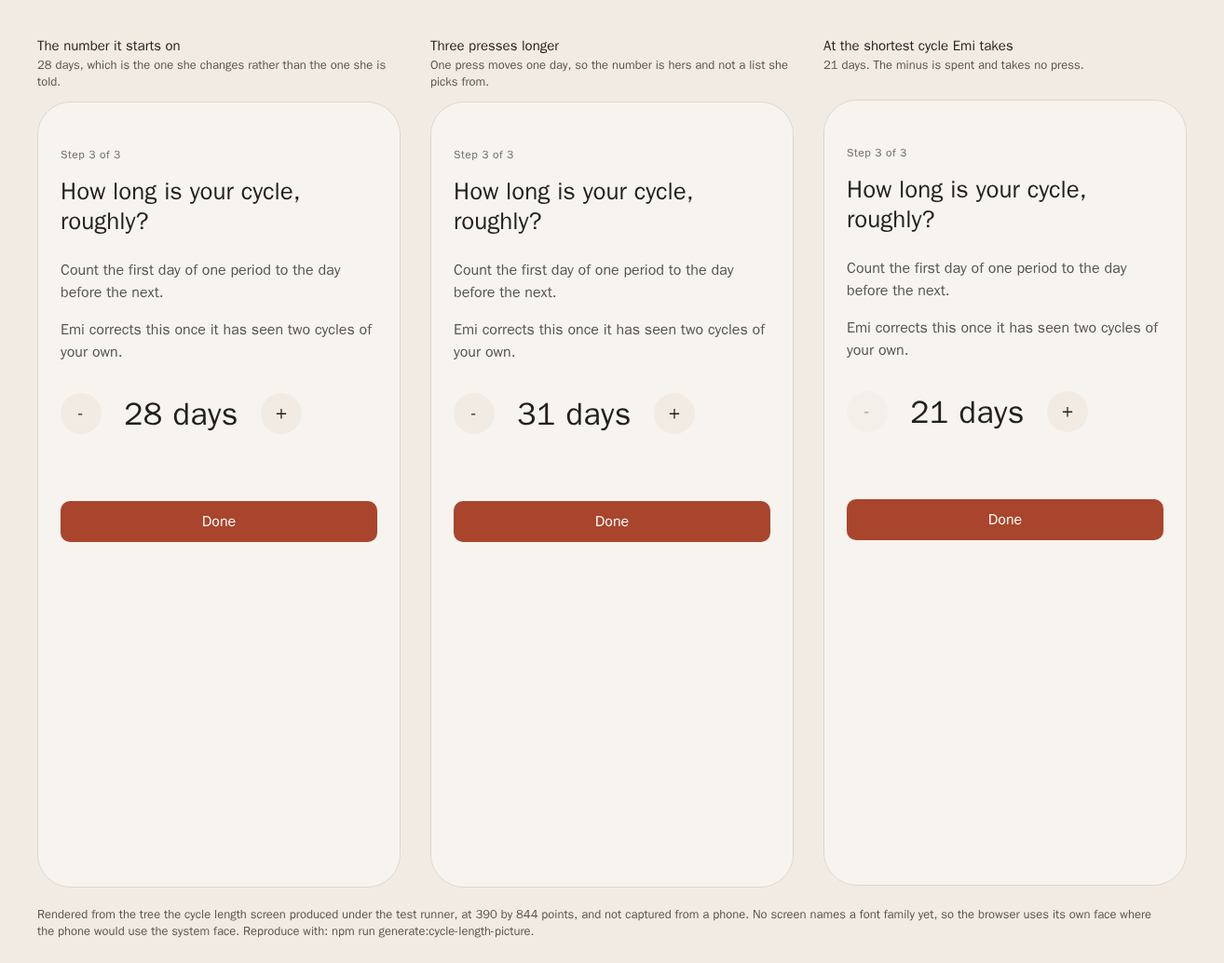
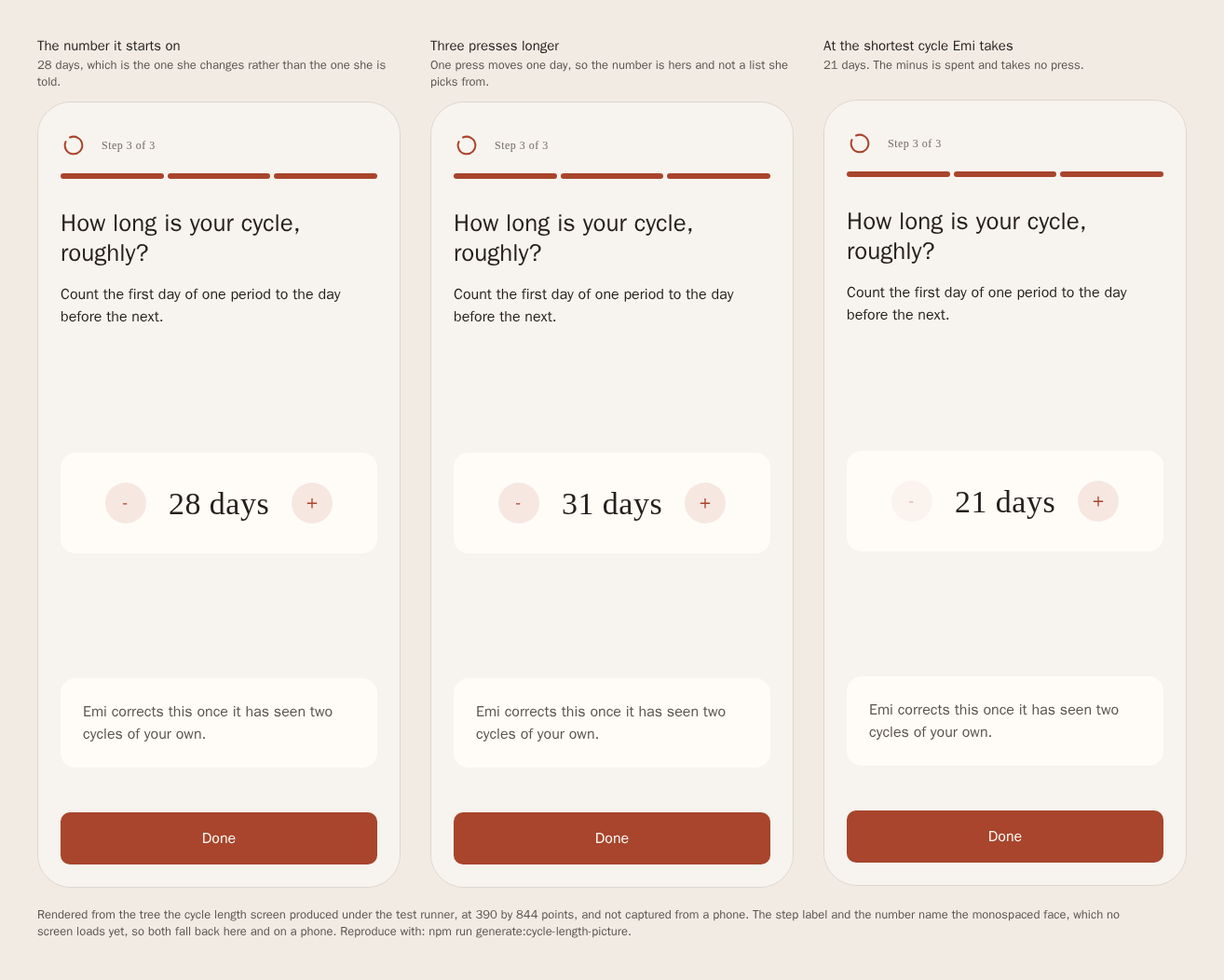
EMI: fix: redraw the three pictures for the design system on the first run

diff --git a/brand/screens/past-day.html b/brand/screens/past-day.html
@@ -22,4 +22,4 @@ svg { flex-shrink: 0; }
 .title { font-size: 15px; font-weight: 600; color: #241F1C; margin: 0 0 2px; }
 .note { font-size: 13px; color: #5C534E; margin: 0 0 12px; min-height: 34px; }
 .caveat { font-size: 13px; color: #5C534E; margin: 20px 0 0; max-width: 1200px; }
-</style></head><body><div class="screens"><section class="screen"><p class="title">The day she goes back to</p><p class="note">Day 3, holding the flow her records already carry. The ring is today, not that day.</p><div class="phone"><div style="background-color: #F7F3EE; flex: 1"><div style="; overflow: hidden"><div style="gap: 16px; padding: 24px; padding-top: 48px; min-height: 100%"><div><div style="align-items: center; margin-bottom: 16px"><div style="align-items: center; justify-content: center; height: 240px; width: 240px"><div style="opacity: 1; transform: scale(1)"><svg width="240" height="240" viewBox="0 0 240 240"><g><path d="M 120 8 A 112 112 0 0 1 219.021 67.666" stroke="#e05a4e" stroke-width="16" fill="none"></path><path d="M 229.375 144.105 A 112 112 0 0 1 209.11 187.848" stroke="#e0913a" stroke-width="16" opacity="0.2" fill="none"></path><path d="M 221.624 72.92 A 112 112 0 0 1 229.375 144.105" stroke="#e0913a" stroke-width="16" fill="none"></path><path d="M 205.437 192.419 A 112 112 0 0 1 52.152 209.11" stroke="#2e8c93" stroke-width="16" opacity="0.2" fill="none"></path><path d="M 47.581 205.437 A 112 112 0 0 1 114.138 8.153" stroke="#7a5b8c" stroke-width="16" opacity="0.2" fill="none"></path><circle cx="231.3418885929958" cy="132.12368939493732" r="9" fill="#a8452c" stroke="#f7f3ee" stroke-width="2"></circle></g></svg></div><div style="align-items: center; bottom: 0px; justify-content: center; left: 0px; position: absolute; right: 0px; top: 0px"><div style="color: #241F1C; font-size: 34px; letter-spacing: 0px; line-height: 41px">8</div><div style="font-size: 14px; letter-spacing: 0px; line-height: 20px; color: #8A5416">Follicular</div></div></div></div><div style="color: #756A64; font-size: 12px; letter-spacing: 0.48px; line-height: 16px">Wednesday 24 June</div><div style="color: #241F1C; font-size: 26px; line-height: 32px">Your flow</div><div style="flex-direction: row; flex-wrap: wrap; gap: 8px"><div style="align-items: center; border-radius: 10px; border-width: 1px; justify-content: center; max-width: 100%; min-height: 44px; min-width: 44px; padding-left: 16px; padding-right: 16px; padding-top: 8px; padding-bottom: 8px; background-color: #F1EBE4; border-color: #F1EBE4"><div style="color: #5C534E; font-size: 16px; line-height: 24px; text-align: center">None</div></div><div style="align-items: center; border-radius: 10px; border-width: 1px; justify-content: center; max-width: 100%; min-height: 44px; min-width: 44px; padding-left: 16px; padding-right: 16px; padding-top: 8px; padding-bottom: 8px; background-color: #F1EBE4; border-color: #F1EBE4"><div style="color: #5C534E; font-size: 16px; line-height: 24px; text-align: center">Spotting</div></div><div style="align-items: center; border-radius: 10px; border-width: 1px; justify-content: center; max-width: 100%; min-height: 44px; min-width: 44px; padding-left: 16px; padding-right: 16px; padding-top: 8px; padding-bottom: 8px; background-color: #F1EBE4; border-color: #F1EBE4"><div style="color: #5C534E; font-size: 16px; line-height: 24px; text-align: center">Light</div></div><div style="align-items: center; border-radius: 10px; border-width: 1px; justify-content: center; max-width: 100%; min-height: 44px; min-width: 44px; padding-left: 16px; padding-right: 16px; padding-top: 8px; padding-bottom: 8px; background-color: #F6E7E1; border-color: #A8452C"><div style="color: #5C534E; font-size: 16px; line-height: 24px; text-align: center; color: #241F1C">Medium</div></div><div style="align-items: center; border-radius: 10px; border-width: 1px; justify-content: center; max-width: 100%; min-height: 44px; min-width: 44px; padding-left: 16px; padding-right: 16px; padding-top: 8px; padding-bottom: 8px; background-color: #F1EBE4; border-color: #F1EBE4"><div style="color: #5C534E; font-size: 16px; line-height: 24px; text-align: center">Heavy</div></div></div><div style="border-top-color: #241F1C1A; border-top-width: 1px; gap: 8px; margin-top: 8px; padding-top: 16px"><div style="color: #5C534E; font-size: 14px; line-height: 20px">Not your period? Log it. Emi will track the pattern.</div><div style="align-items: center; align-self: flex-start; border-radius: 10px; border-width: 1px; justify-content: center; min-height: 44px; min-width: 44px; padding-left: 16px; padding-right: 16px; padding-top: 8px; padding-bottom: 8px; background-color: #F1EBE4; border-color: #F1EBE4"><div style="color: #5C534E; font-size: 16px; line-height: 24px">Not my period</div></div></div><div style="color: #5C534E; font-size: 16px; line-height: 24px">Saved on this phone.</div></div></div></div><div style="align-items: center; background-color: #A8452C; border-radius: 10px; justify-content: center; margin: 24px; min-height: 44px; min-width: 44px; padding-left: 24px; padding-right: 24px"><div style="color: #FFFCF8; font-size: 16px; line-height: 24px">Done</div></div></div></div></section><section class="screen"><p class="title">She corrects it to light</p><p class="note">Drawn from her corrected days. The ring stands still: the cycle still starts where it started.</p><div class="phone"><div style="background-color: #F7F3EE; flex: 1"><div style="; overflow: hidden"><div style="gap: 16px; padding: 24px; padding-top: 48px; min-height: 100%"><div><div style="align-items: center; margin-bottom: 16px"><div style="align-items: center; justify-content: center; height: 240px; width: 240px"><div style="opacity: 1; transform: scale(1)"><svg width="240" height="240" viewBox="0 0 240 240"><g><path d="M 120 8 A 112 112 0 0 1 219.021 67.666" stroke="#e05a4e" stroke-width="16" fill="none"></path><path d="M 229.375 144.105 A 112 112 0 0 1 209.11 187.848" stroke="#e0913a" stroke-width="16" opacity="0.2" fill="none"></path><path d="M 221.624 72.92 A 112 112 0 0 1 229.375 144.105" stroke="#e0913a" stroke-width="16" fill="none"></path><path d="M 205.437 192.419 A 112 112 0 0 1 52.152 209.11" stroke="#2e8c93" stroke-width="16" opacity="0.2" fill="none"></path><path d="M 47.581 205.437 A 112 112 0 0 1 114.138 8.153" stroke="#7a5b8c" stroke-width="16" opacity="0.2" fill="none"></path><circle cx="231.3418885929958" cy="132.12368939493732" r="9" fill="#a8452c" stroke="#f7f3ee" stroke-width="2"></circle></g></svg></div><div style="align-items: center; bottom: 0px; justify-content: center; left: 0px; position: absolute; right: 0px; top: 0px"><div style="color: #241F1C; font-size: 34px; letter-spacing: 0px; line-height: 41px">8</div><div style="font-size: 14px; letter-spacing: 0px; line-height: 20px; color: #8A5416">Follicular</div></div></div></div><div style="color: #756A64; font-size: 12px; letter-spacing: 0.48px; line-height: 16px">Wednesday 24 June</div><div style="color: #241F1C; font-size: 26px; line-height: 32px">Your flow</div><div style="flex-direction: row; flex-wrap: wrap; gap: 8px"><div style="align-items: center; border-radius: 10px; border-width: 1px; justify-content: center; max-width: 100%; min-height: 44px; min-width: 44px; padding-left: 16px; padding-right: 16px; padding-top: 8px; padding-bottom: 8px; background-color: #F1EBE4; border-color: #F1EBE4"><div style="color: #5C534E; font-size: 16px; line-height: 24px; text-align: center">None</div></div><div style="align-items: center; border-radius: 10px; border-width: 1px; justify-content: center; max-width: 100%; min-height: 44px; min-width: 44px; padding-left: 16px; padding-right: 16px; padding-top: 8px; padding-bottom: 8px; background-color: #F1EBE4; border-color: #F1EBE4"><div style="color: #5C534E; font-size: 16px; line-height: 24px; text-align: center">Spotting</div></div><div style="align-items: center; border-radius: 10px; border-width: 1px; justify-content: center; max-width: 100%; min-height: 44px; min-width: 44px; padding-left: 16px; padding-right: 16px; padding-top: 8px; padding-bottom: 8px; background-color: #F6E7E1; border-color: #A8452C"><div style="color: #5C534E; font-size: 16px; line-height: 24px; text-align: center; color: #241F1C">Light</div></div><div style="align-items: center; border-radius: 10px; border-width: 1px; justify-content: center; max-width: 100%; min-height: 44px; min-width: 44px; padding-left: 16px; padding-right: 16px; padding-top: 8px; padding-bottom: 8px; background-color: #F1EBE4; border-color: #F1EBE4"><div style="color: #5C534E; font-size: 16px; line-height: 24px; text-align: center">Medium</div></div><div style="align-items: center; border-radius: 10px; border-width: 1px; justify-content: center; max-width: 100%; min-height: 44px; min-width: 44px; padding-left: 16px; padding-right: 16px; padding-top: 8px; padding-bottom: 8px; background-color: #F1EBE4; border-color: #F1EBE4"><div style="color: #5C534E; font-size: 16px; line-height: 24px; text-align: center">Heavy</div></div></div><div style="border-top-color: #241F1C1A; border-top-width: 1px; gap: 8px; margin-top: 8px; padding-top: 16px"><div style="color: #5C534E; font-size: 14px; line-height: 20px">Not your period? Log it. Emi will track the pattern.</div><div style="align-items: center; align-self: flex-start; border-radius: 10px; border-width: 1px; justify-content: center; min-height: 44px; min-width: 44px; padding-left: 16px; padding-right: 16px; padding-top: 8px; padding-bottom: 8px; background-color: #F1EBE4; border-color: #F1EBE4"><div style="color: #5C534E; font-size: 16px; line-height: 24px">Not my period</div></div></div><div style="color: #5C534E; font-size: 16px; line-height: 24px">Saved on this phone.</div></div></div></div><div style="align-items: center; background-color: #A8452C; border-radius: 10px; justify-content: center; margin: 24px; min-height: 44px; min-width: 44px; padding-left: 24px; padding-right: 24px"><div style="color: #FFFCF8; font-size: 16px; line-height: 24px">Done</div></div></div></div></section><section class="screen"><p class="title">A day she has not lived</p><p class="note">The rule sits in the write and not only on the screen, so no path can record a day ahead.</p><div class="phone"><div style="background-color: #F7F3EE; flex: 1; justify-content: center; padding: 24px"><div style="color: #241F1C; font-size: 26px; line-height: 32px; margin-bottom: 8px; text-align: center">Not yet</div><div style="color: #5C534E; font-size: 16px; line-height: 24px; text-align: center">That day has not happened. You can log today and any day behind it.</div><div style="align-items: center; background-color: #A8452C; border-radius: 10px; justify-content: center; margin-top: 32px; min-height: 44px; min-width: 44px; padding-left: 24px; padding-right: 24px"><div style="color: #FFFCF8; font-size: 16px; line-height: 24px">Back</div></div></div></div></section></div><p class="caveat">Rendered from the tree the day screen produced under the test runner, at 390 by 844 points, and not captured from a phone. No screen names a font family yet, so the browser uses its own face where the phone would use the system face. Reproduce with: npm run generate:past-day-picture.</p></body></html>
+</style></head><body><div class="screens"><section class="screen"><p class="title">The day she goes back to</p><p class="note">Day 3, holding the flow her records already carry. The ring is today, not that day.</p><div class="phone"><div style="background-color: #F7F3EE; flex: 1"><div style="; overflow: hidden"><div style="gap: 16px; padding: 24px; padding-top: 48px; min-height: 100%"><div style="align-items: center; margin-bottom: 16px"><div style="align-items: center; justify-content: center; height: 240px; width: 240px"><div style="opacity: 1; transform: scale(1)"><svg width="240" height="240" viewBox="0 0 240 240"><g><path d="M 120 8 A 112 112 0 0 1 219.021 67.666" stroke="#e05a4e" stroke-width="16" fill="none"></path><path d="M 229.375 144.105 A 112 112 0 0 1 209.11 187.848" stroke="#e0913a" stroke-width="16" fill="none"></path><path d="M 221.624 72.92 A 112 112 0 0 1 229.375 144.105" stroke="#e0913a" stroke-width="16" fill="none"></path><path d="M 205.437 192.419 A 112 112 0 0 1 52.152 209.11" stroke="#2e8c93" stroke-width="16" fill="none"></path><path d="M 47.581 205.437 A 112 112 0 0 1 114.138 8.153" stroke="#7a5b8c" stroke-width="16" fill="none"></path><circle cx="231.3418885929958" cy="132.12368939493732" r="9" fill="#a8452c" stroke="#f7f3ee" stroke-width="2"></circle></g></svg></div><div style="align-items: center; bottom: 0px; justify-content: center; left: 0px; position: absolute; right: 0px; top: 0px"><div style="color: #241F1C; font-size: 34px; letter-spacing: 0px; line-height: 41px">8</div><div style="font-size: 14px; letter-spacing: 0px; line-height: 20px; color: #8A5416">Follicular</div></div></div></div><div style="color: #756A64; font-size: 12px; letter-spacing: 0.48px; line-height: 16px">Wednesday 24 June</div><div style="color: #241F1C; font-size: 26px; line-height: 32px">Your flow</div><div style="flex-direction: row; flex-wrap: wrap; gap: 8px"><div style="align-items: center; border-radius: 10px; border-width: 1px; justify-content: center; max-width: 100%; min-height: 44px; min-width: 44px; padding-left: 16px; padding-right: 16px; padding-top: 8px; padding-bottom: 8px; background-color: #F1EBE4; border-color: #F1EBE4"><div style="color: #5C534E; font-size: 16px; line-height: 24px; text-align: center">None</div></div><div style="align-items: center; border-radius: 10px; border-width: 1px; justify-content: center; max-width: 100%; min-height: 44px; min-width: 44px; padding-left: 16px; padding-right: 16px; padding-top: 8px; padding-bottom: 8px; background-color: #F1EBE4; border-color: #F1EBE4"><div style="color: #5C534E; font-size: 16px; line-height: 24px; text-align: center">Spotting</div></div><div style="align-items: center; border-radius: 10px; border-width: 1px; justify-content: center; max-width: 100%; min-height: 44px; min-width: 44px; padding-left: 16px; padding-right: 16px; padding-top: 8px; padding-bottom: 8px; background-color: #F1EBE4; border-color: #F1EBE4"><div style="color: #5C534E; font-size: 16px; line-height: 24px; text-align: center">Light</div></div><div style="align-items: center; border-radius: 10px; border-width: 1px; justify-content: center; max-width: 100%; min-height: 44px; min-width: 44px; padding-left: 16px; padding-right: 16px; padding-top: 8px; padding-bottom: 8px; background-color: #F6E7E1; border-color: #A8452C"><div style="color: #5C534E; font-size: 16px; line-height: 24px; text-align: center; color: #241F1C">Medium</div></div><div style="align-items: center; border-radius: 10px; border-width: 1px; justify-content: center; max-width: 100%; min-height: 44px; min-width: 44px; padding-left: 16px; padding-right: 16px; padding-top: 8px; padding-bottom: 8px; background-color: #F1EBE4; border-color: #F1EBE4"><div style="color: #5C534E; font-size: 16px; line-height: 24px; text-align: center">Heavy</div></div></div><div style="border-top-color: #241F1C1A; border-top-width: 1px; gap: 8px; margin-top: 8px; padding-top: 16px"><div style="color: #5C534E; font-size: 14px; line-height: 20px">Not your period? Log it. Emi will track the pattern.</div><div style="align-items: center; align-self: flex-start; border-radius: 10px; border-width: 1px; justify-content: center; min-height: 44px; min-width: 44px; padding-left: 16px; padding-right: 16px; padding-top: 8px; padding-bottom: 8px; background-color: #F1EBE4; border-color: #F1EBE4"><div style="color: #5C534E; font-size: 16px; line-height: 24px">Not my period</div></div></div><div style="color: #5C534E; font-size: 16px; line-height: 24px">Saved on this phone.</div></div></div><div style="align-items: center; background-color: #A8452C; border-radius: 10px; justify-content: center; margin: 24px; min-height: 44px; min-width: 44px; padding-left: 24px; padding-right: 24px"><div style="color: #FFFCF8; font-size: 16px; line-height: 24px">Done</div></div></div></div></section><section class="screen"><p class="title">She corrects it to light</p><p class="note">Drawn from her corrected days. The ring stands still: the cycle still starts where it started.</p><div class="phone"><div style="background-color: #F7F3EE; flex: 1"><div style="; overflow: hidden"><div style="gap: 16px; padding: 24px; padding-top: 48px; min-height: 100%"><div style="align-items: center; margin-bottom: 16px"><div style="align-items: center; justify-content: center; height: 240px; width: 240px"><div style="opacity: 1; transform: scale(1)"><svg width="240" height="240" viewBox="0 0 240 240"><g><path d="M 120 8 A 112 112 0 0 1 219.021 67.666" stroke="#e05a4e" stroke-width="16" fill="none"></path><path d="M 229.375 144.105 A 112 112 0 0 1 209.11 187.848" stroke="#e0913a" stroke-width="16" fill="none"></path><path d="M 221.624 72.92 A 112 112 0 0 1 229.375 144.105" stroke="#e0913a" stroke-width="16" fill="none"></path><path d="M 205.437 192.419 A 112 112 0 0 1 52.152 209.11" stroke="#2e8c93" stroke-width="16" fill="none"></path><path d="M 47.581 205.437 A 112 112 0 0 1 114.138 8.153" stroke="#7a5b8c" stroke-width="16" fill="none"></path><circle cx="231.3418885929958" cy="132.12368939493732" r="9" fill="#a8452c" stroke="#f7f3ee" stroke-width="2"></circle></g></svg></div><div style="align-items: center; bottom: 0px; justify-content: center; left: 0px; position: absolute; right: 0px; top: 0px"><div style="color: #241F1C; font-size: 34px; letter-spacing: 0px; line-height: 41px">8</div><div style="font-size: 14px; letter-spacing: 0px; line-height: 20px; color: #8A5416">Follicular</div></div></div></div><div style="color: #756A64; font-size: 12px; letter-spacing: 0.48px; line-height: 16px">Wednesday 24 June</div><div style="color: #241F1C; font-size: 26px; line-height: 32px">Your flow</div><div style="flex-direction: row; flex-wrap: wrap; gap: 8px"><div style="align-items: center; border-radius: 10px; border-width: 1px; justify-content: center; max-width: 100%; min-height: 44px; min-width: 44px; padding-left: 16px; padding-right: 16px; padding-top: 8px; padding-bottom: 8px; background-color: #F1EBE4; border-color: #F1EBE4"><div style="color: #5C534E; font-size: 16px; line-height: 24px; text-align: center">None</div></div><div style="align-items: center; border-radius: 10px; border-width: 1px; justify-content: center; max-width: 100%; min-height: 44px; min-width: 44px; padding-left: 16px; padding-right: 16px; padding-top: 8px; padding-bottom: 8px; background-color: #F1EBE4; border-color: #F1EBE4"><div style="color: #5C534E; font-size: 16px; line-height: 24px; text-align: center">Spotting</div></div><div style="align-items: center; border-radius: 10px; border-width: 1px; justify-content: center; max-width: 100%; min-height: 44px; min-width: 44px; padding-left: 16px; padding-right: 16px; padding-top: 8px; padding-bottom: 8px; background-color: #F6E7E1; border-color: #A8452C"><div style="color: #5C534E; font-size: 16px; line-height: 24px; text-align: center; color: #241F1C">Light</div></div><div style="align-items: center; border-radius: 10px; border-width: 1px; justify-content: center; max-width: 100%; min-height: 44px; min-width: 44px; padding-left: 16px; padding-right: 16px; padding-top: 8px; padding-bottom: 8px; background-color: #F1EBE4; border-color: #F1EBE4"><div style="color: #5C534E; font-size: 16px; line-height: 24px; text-align: center">Medium</div></div><div style="align-items: center; border-radius: 10px; border-width: 1px; justify-content: center; max-width: 100%; min-height: 44px; min-width: 44px; padding-left: 16px; padding-right: 16px; padding-top: 8px; padding-bottom: 8px; background-color: #F1EBE4; border-color: #F1EBE4"><div style="color: #5C534E; font-size: 16px; line-height: 24px; text-align: center">Heavy</div></div></div><div style="border-top-color: #241F1C1A; border-top-width: 1px; gap: 8px; margin-top: 8px; padding-top: 16px"><div style="color: #5C534E; font-size: 14px; line-height: 20px">Not your period? Log it. Emi will track the pattern.</div><div style="align-items: center; align-self: flex-start; border-radius: 10px; border-width: 1px; justify-content: center; min-height: 44px; min-width: 44px; padding-left: 16px; padding-right: 16px; padding-top: 8px; padding-bottom: 8px; background-color: #F1EBE4; border-color: #F1EBE4"><div style="color: #5C534E; font-size: 16px; line-height: 24px">Not my period</div></div></div><div style="color: #5C534E; font-size: 16px; line-height: 24px">Saved on this phone.</div></div></div><div style="align-items: center; background-color: #A8452C; border-radius: 10px; justify-content: center; margin: 24px; min-height: 44px; min-width: 44px; padding-left: 24px; padding-right: 24px"><div style="color: #FFFCF8; font-size: 16px; line-height: 24px">Done</div></div></div></div></section><section class="screen"><p class="title">A day she has not lived</p><p class="note">The rule sits in the write and not only on the screen, so no path can record a day ahead.</p><div class="phone"><div style="background-color: #F7F3EE; flex: 1; justify-content: center; padding: 24px"><div style="color: #241F1C; font-size: 26px; line-height: 32px; margin-bottom: 8px; text-align: center">Not yet</div><div style="color: #5C534E; font-size: 16px; line-height: 24px; text-align: center">That day has not happened. You can log today and any day behind it.</div><div style="align-items: center; background-color: #A8452C; border-radius: 10px; justify-content: center; margin-top: 32px; min-height: 44px; min-width: 44px; padding-left: 24px; padding-right: 24px"><div style="color: #FFFCF8; font-size: 16px; line-height: 24px">Back</div></div></div></div></section></div><p class="caveat">Rendered from the tree the day screen produced under the test runner, at 390 by 844 points, and not captured from a phone. No screen names a font family yet, so the browser uses its own face where the phone would use the system face. Reproduce with: npm run generate:past-day-picture.</p></body></html>

diff --git a/brand/screens/cycle-length.html b/brand/screens/cycle-length.html
@@ -22,4 +22,4 @@ svg { flex-shrink: 0; }
 .title { font-size: 15px; font-weight: 600; color: #241F1C; margin: 0 0 2px; }
 .note { font-size: 13px; color: #5C534E; margin: 0 0 12px; min-height: 34px; }
 .caveat { font-size: 13px; color: #5C534E; margin: 20px 0 0; max-width: 1200px; }
-</style></head><body><div class="screens"><section class="screen"><p class="title">The number it starts on</p><p class="note">28 days, which is the one she changes rather than the one she is told.</p><div class="phone"><div style="background-color: #F7F3EE; flex: 1"><div style="; overflow: hidden"><div style="padding: 24px; padding-top: 48px; min-height: 100%"><div><div style="color: #756A64; font-size: 12px; letter-spacing: 0.48px; line-height: 16px; margin-bottom: 16px">Step 3 of 3</div><div style="color: #241F1C; font-size: 26px; line-height: 32px; margin-bottom: 24px">How long is your cycle, roughly?</div><div style="color: #5C534E; font-size: 16px; line-height: 24px; margin-bottom: 16px">Count the first day of one period to the day before the next.</div><div style="color: #5C534E; font-size: 16px; line-height: 24px; margin-bottom: 16px">Emi corrects this once it has seen two cycles of your own.</div><div style="align-items: center; flex-direction: row; gap: 24px; margin-bottom: 24px; margin-top: 16px"><div style="align-items: center; background-color: #F1EBE4; border-radius: 999px; justify-content: center; min-height: 44px; min-width: 44px"><div style="color: #241F1C; font-size: 20px; line-height: 26px">-</div></div><div style="color: #241F1C; font-size: 34px; letter-spacing: 0.48px; line-height: 41px">28 days</div><div style="align-items: center; background-color: #F1EBE4; border-radius: 999px; justify-content: center; min-height: 44px; min-width: 44px"><div style="color: #241F1C; font-size: 20px; line-height: 26px">+</div></div></div></div></div></div><div style="align-items: center; background-color: #A8452C; border-radius: 10px; justify-content: center; margin: 24px; min-height: 44px; min-width: 44px; padding-left: 24px; padding-right: 24px"><div style="color: #FFFCF8; font-size: 16px; line-height: 24px">Done</div></div></div></div></section><section class="screen"><p class="title">Three presses longer</p><p class="note">One press moves one day, so the number is hers and not a list she picks from.</p><div class="phone"><div style="background-color: #F7F3EE; flex: 1"><div style="; overflow: hidden"><div style="padding: 24px; padding-top: 48px; min-height: 100%"><div><div style="color: #756A64; font-size: 12px; letter-spacing: 0.48px; line-height: 16px; margin-bottom: 16px">Step 3 of 3</div><div style="color: #241F1C; font-size: 26px; line-height: 32px; margin-bottom: 24px">How long is your cycle, roughly?</div><div style="color: #5C534E; font-size: 16px; line-height: 24px; margin-bottom: 16px">Count the first day of one period to the day before the next.</div><div style="color: #5C534E; font-size: 16px; line-height: 24px; margin-bottom: 16px">Emi corrects this once it has seen two cycles of your own.</div><div style="align-items: center; flex-direction: row; gap: 24px; margin-bottom: 24px; margin-top: 16px"><div style="align-items: center; background-color: #F1EBE4; border-radius: 999px; justify-content: center; min-height: 44px; min-width: 44px"><div style="color: #241F1C; font-size: 20px; line-height: 26px">-</div></div><div style="color: #241F1C; font-size: 34px; letter-spacing: 0.48px; line-height: 41px">31 days</div><div style="align-items: center; background-color: #F1EBE4; border-radius: 999px; justify-content: center; min-height: 44px; min-width: 44px"><div style="color: #241F1C; font-size: 20px; line-height: 26px">+</div></div></div></div></div></div><div style="align-items: center; background-color: #A8452C; border-radius: 10px; justify-content: center; margin: 24px; min-height: 44px; min-width: 44px; padding-left: 24px; padding-right: 24px"><div style="color: #FFFCF8; font-size: 16px; line-height: 24px">Done</div></div></div></div></section><section class="screen"><p class="title">At the shortest cycle Emi takes</p><p class="note">21 days. The minus is spent and takes no press.</p><div class="phone"><div style="background-color: #F7F3EE; flex: 1"><div style="; overflow: hidden"><div style="padding: 24px; padding-top: 48px; min-height: 100%"><div><div style="color: #756A64; font-size: 12px; letter-spacing: 0.48px; line-height: 16px; margin-bottom: 16px">Step 3 of 3</div><div style="color: #241F1C; font-size: 26px; line-height: 32px; margin-bottom: 24px">How long is your cycle, roughly?</div><div style="color: #5C534E; font-size: 16px; line-height: 24px; margin-bottom: 16px">Count the first day of one period to the day before the next.</div><div style="color: #5C534E; font-size: 16px; line-height: 24px; margin-bottom: 16px">Emi corrects this once it has seen two cycles of your own.</div><div style="align-items: center; flex-direction: row; gap: 24px; margin-bottom: 24px; margin-top: 16px"><div style="align-items: center; background-color: #F1EBE4; border-radius: 999px; justify-content: center; min-height: 44px; min-width: 44px; opacity: 0.4"><div style="color: #241F1C; font-size: 20px; line-height: 26px">-</div></div><div style="color: #241F1C; font-size: 34px; letter-spacing: 0.48px; line-height: 41px">21 days</div><div style="align-items: center; background-color: #F1EBE4; border-radius: 999px; justify-content: center; min-height: 44px; min-width: 44px"><div style="color: #241F1C; font-size: 20px; line-height: 26px">+</div></div></div></div></div></div><div style="align-items: center; background-color: #A8452C; border-radius: 10px; justify-content: center; margin: 24px; min-height: 44px; min-width: 44px; padding-left: 24px; padding-right: 24px"><div style="color: #FFFCF8; font-size: 16px; line-height: 24px">Done</div></div></div></div></section></div><p class="caveat">Rendered from the tree the cycle length screen produced under the test runner, at 390 by 844 points, and not captured from a phone. No screen names a font family yet, so the browser uses its own face where the phone would use the system face. Reproduce with: npm run generate:cycle-length-picture.</p></body></html>
+</style></head><body><div class="screens"><section class="screen"><p class="title">The number it starts on</p><p class="note">28 days, which is the one she changes rather than the one she is told.</p><div class="phone"><div style="background-color: #F7F3EE; flex: 1"><div style="align-items: center; flex-direction: row; gap: 16px; padding-left: 24px; padding-right: 24px; padding-top: 32px"><svg width="28" height="28" viewBox="0 0 24 24"><g stroke="#a8452c" stroke-width="1.75" stroke-linecap="round" stroke-linejoin="round"><path d="M4.75 8.62A8 8 0 1 0 8.62 4.75" fill="none"></path></g></svg><div style="color: #756A64; font-family: IBM Plex Mono; font-size: 12px; letter-spacing: 0.48px; line-height: 16px">Step 3 of 3</div></div><div style="flex-direction: row; gap: 4px; padding-left: 24px; padding-right: 24px; padding-top: 16px"><div style="background-color: #F1EBE4; border-radius: 999px; flex: 1; height: 6px; background-color: #A8452C"></div><div style="background-color: #F1EBE4; border-radius: 999px; flex: 1; height: 6px; background-color: #A8452C"></div><div style="background-color: #F1EBE4; border-radius: 999px; flex: 1; height: 6px; background-color: #A8452C"></div></div><div style="flex: 1; overflow: hidden"><div style="flex-grow: 1; justify-content: space-between; padding-bottom: 24px; padding-left: 24px; padding-right: 24px; padding-top: 32px; min-height: 100%"><div><div style="color: #241F1C; font-size: 26px; line-height: 32px; margin-bottom: 16px">How long is your cycle, roughly?</div><div style="color: #241F1C; font-size: 16px; line-height: 24px">Count the first day of one period to the day before the next.</div></div><div style="flex-grow: 1; justify-content: center; padding-top: 32px; padding-bottom: 32px"><div style="align-items: center; background-color: #FFFCF8; border-color: #241F1C1A; border-radius: 16px; border-width: 1px; flex-direction: row; gap: 24px; justify-content: center; padding-left: 24px; padding-right: 24px; padding-top: 32px; padding-bottom: 32px"><div style="align-items: center; background-color: #F6E7E1; border-color: #A8452C; border-radius: 999px; border-width: 1px; justify-content: center; min-height: 44px; min-width: 44px"><div style="color: #A8452C; font-size: 20px; line-height: 26px">-</div></div><div style="color: #241F1C; font-family: IBM Plex Mono; font-size: 34px; letter-spacing: 0.48px; line-height: 41px">28 days</div><div style="align-items: center; background-color: #F6E7E1; border-color: #A8452C; border-radius: 999px; border-width: 1px; justify-content: center; min-height: 44px; min-width: 44px"><div style="color: #A8452C; font-size: 20px; line-height: 26px">+</div></div></div></div><div style="background-color: #FFFCF8; border-color: #241F1C1A; border-radius: 16px; border-width: 1px; padding: 24px"><div style="color: #5C534E; font-size: 16px; line-height: 24px">Emi corrects this once it has seen two cycles of your own.</div></div></div></div><div style="border-top-color: #241F1C1A; border-top-width: 1px; padding: 24px"><div style="align-items: center; background-color: #A8452C; border-radius: 10px; justify-content: center; min-height: 44px; min-width: 44px; padding-left: 24px; padding-right: 24px; padding-top: 16px; padding-bottom: 16px"><div style="color: #FFFCF8; font-size: 16px; line-height: 24px">Done</div></div></div></div></div></section><section class="screen"><p class="title">Three presses longer</p><p class="note">One press moves one day, so the number is hers and not a list she picks from.</p><div class="phone"><div style="background-color: #F7F3EE; flex: 1"><div style="align-items: center; flex-direction: row; gap: 16px; padding-left: 24px; padding-right: 24px; padding-top: 32px"><svg width="28" height="28" viewBox="0 0 24 24"><g stroke="#a8452c" stroke-width="1.75" stroke-linecap="round" stroke-linejoin="round"><path d="M4.75 8.62A8 8 0 1 0 8.62 4.75" fill="none"></path></g></svg><div style="color: #756A64; font-family: IBM Plex Mono; font-size: 12px; letter-spacing: 0.48px; line-height: 16px">Step 3 of 3</div></div><div style="flex-direction: row; gap: 4px; padding-left: 24px; padding-right: 24px; padding-top: 16px"><div style="background-color: #F1EBE4; border-radius: 999px; flex: 1; height: 6px; background-color: #A8452C"></div><div style="background-color: #F1EBE4; border-radius: 999px; flex: 1; height: 6px; background-color: #A8452C"></div><div style="background-color: #F1EBE4; border-radius: 999px; flex: 1; height: 6px; background-color: #A8452C"></div></div><div style="flex: 1; overflow: hidden"><div style="flex-grow: 1; justify-content: space-between; padding-bottom: 24px; padding-left: 24px; padding-right: 24px; padding-top: 32px; min-height: 100%"><div><div style="color: #241F1C; font-size: 26px; line-height: 32px; margin-bottom: 16px">How long is your cycle, roughly?</div><div style="color: #241F1C; font-size: 16px; line-height: 24px">Count the first day of one period to the day before the next.</div></div><div style="flex-grow: 1; justify-content: center; padding-top: 32px; padding-bottom: 32px"><div style="align-items: center; background-color: #FFFCF8; border-color: #241F1C1A; border-radius: 16px; border-width: 1px; flex-direction: row; gap: 24px; justify-content: center; padding-left: 24px; padding-right: 24px; padding-top: 32px; padding-bottom: 32px"><div style="align-items: center; background-color: #F6E7E1; border-color: #A8452C; border-radius: 999px; border-width: 1px; justify-content: center; min-height: 44px; min-width: 44px"><div style="color: #A8452C; font-size: 20px; line-height: 26px">-</div></div><div style="color: #241F1C; font-family: IBM Plex Mono; font-size: 34px; letter-spacing: 0.48px; line-height: 41px">31 days</div><div style="align-items: center; background-color: #F6E7E1; border-color: #A8452C; border-radius: 999px; border-width: 1px; justify-content: center; min-height: 44px; min-width: 44px"><div style="color: #A8452C; font-size: 20px; line-height: 26px">+</div></div></div></div><div style="background-color: #FFFCF8; border-color: #241F1C1A; border-radius: 16px; border-width: 1px; padding: 24px"><div style="color: #5C534E; font-size: 16px; line-height: 24px">Emi corrects this once it has seen two cycles of your own.</div></div></div></div><div style="border-top-color: #241F1C1A; border-top-width: 1px; padding: 24px"><div style="align-items: center; background-color: #A8452C; border-radius: 10px; justify-content: center; min-height: 44px; min-width: 44px; padding-left: 24px; padding-right: 24px; padding-top: 16px; padding-bottom: 16px"><div style="color: #FFFCF8; font-size: 16px; line-height: 24px">Done</div></div></div></div></div></section><section class="screen"><p class="title">At the shortest cycle Emi takes</p><p class="note">21 days. The minus is spent and takes no press.</p><div class="phone"><div style="background-color: #F7F3EE; flex: 1"><div style="align-items: center; flex-direction: row; gap: 16px; padding-left: 24px; padding-right: 24px; padding-top: 32px"><svg width="28" height="28" viewBox="0 0 24 24"><g stroke="#a8452c" stroke-width="1.75" stroke-linecap="round" stroke-linejoin="round"><path d="M4.75 8.62A8 8 0 1 0 8.62 4.75" fill="none"></path></g></svg><div style="color: #756A64; font-family: IBM Plex Mono; font-size: 12px; letter-spacing: 0.48px; line-height: 16px">Step 3 of 3</div></div><div style="flex-direction: row; gap: 4px; padding-left: 24px; padding-right: 24px; padding-top: 16px"><div style="background-color: #F1EBE4; border-radius: 999px; flex: 1; height: 6px; background-color: #A8452C"></div><div style="background-color: #F1EBE4; border-radius: 999px; flex: 1; height: 6px; background-color: #A8452C"></div><div style="background-color: #F1EBE4; border-radius: 999px; flex: 1; height: 6px; background-color: #A8452C"></div></div><div style="flex: 1; overflow: hidden"><div style="flex-grow: 1; justify-content: space-between; padding-bottom: 24px; padding-left: 24px; padding-right: 24px; padding-top: 32px; min-height: 100%"><div><div style="color: #241F1C; font-size: 26px; line-height: 32px; margin-bottom: 16px">How long is your cycle, roughly?</div><div style="color: #241F1C; font-size: 16px; line-height: 24px">Count the first day of one period to the day before the next.</div></div><div style="flex-grow: 1; justify-content: center; padding-top: 32px; padding-bottom: 32px"><div style="align-items: center; background-color: #FFFCF8; border-color: #241F1C1A; border-radius: 16px; border-width: 1px; flex-direction: row; gap: 24px; justify-content: center; padding-left: 24px; padding-right: 24px; padding-top: 32px; padding-bottom: 32px"><div style="align-items: center; background-color: #F6E7E1; border-color: #A8452C; border-radius: 999px; border-width: 1px; justify-content: center; min-height: 44px; min-width: 44px; opacity: 0.4"><div style="color: #A8452C; font-size: 20px; line-height: 26px">-</div></div><div style="color: #241F1C; font-family: IBM Plex Mono; font-size: 34px; letter-spacing: 0.48px; line-height: 41px">21 days</div><div style="align-items: center; background-color: #F6E7E1; border-color: #A8452C; border-radius: 999px; border-width: 1px; justify-content: center; min-height: 44px; min-width: 44px"><div style="color: #A8452C; font-size: 20px; line-height: 26px">+</div></div></div></div><div style="background-color: #FFFCF8; border-color: #241F1C1A; border-radius: 16px; border-width: 1px; padding: 24px"><div style="color: #5C534E; font-size: 16px; line-height: 24px">Emi corrects this once it has seen two cycles of your own.</div></div></div></div><div style="border-top-color: #241F1C1A; border-top-width: 1px; padding: 24px"><div style="align-items: center; background-color: #A8452C; border-radius: 10px; justify-content: center; min-height: 44px; min-width: 44px; padding-left: 24px; padding-right: 24px; padding-top: 16px; padding-bottom: 16px"><div style="color: #FFFCF8; font-size: 16px; line-height: 24px">Done</div></div></div></div></div></section></div><p class="caveat">Rendered from the tree the cycle length screen produced under the test runner, at 390 by 844 points, and not captured from a phone. The step label and the number name the monospaced face, which no screen loads yet, so both fall back here and on a phone. Reproduce with: npm run generate:cycle-length-picture.</p></body></html>

diff --git a/brand/screens/welcome.html b/brand/screens/welcome.html
@@ -22,4 +22,4 @@ svg { flex-shrink: 0; }
 .title { font-size: 15px; font-weight: 600; color: #241F1C; margin: 0 0 2px; }
 .note { font-size: 13px; color: #5C534E; margin: 0 0 12px; min-height: 34px; }
 .caveat { font-size: 13px; color: #5C534E; margin: 20px 0 0; max-width: 1200px; }
-</style></head><body><div class="screens"><section class="screen"><p class="title">Step 1 of 3, and it asks her nothing</p><p class="note">No account, no email address, and the two refusals stated on the first screen.</p><div class="phone"><div style="background-color: #F7F3EE; flex: 1"><div style="; overflow: hidden"><div style="padding: 24px; padding-top: 48px; min-height: 100%"><div><div style="color: #756A64; font-size: 12px; letter-spacing: 0.48px; line-height: 16px; margin-bottom: 16px">Step 1 of 3</div><div style="color: #241F1C; font-size: 26px; line-height: 32px; margin-bottom: 24px">Emi learns your cycle. You keep your data.</div><div style="color: #5C534E; font-size: 16px; line-height: 24px; margin-bottom: 16px">Your cycle is worked out on this phone. Nothing is sent anywhere.</div><div style="color: #5C534E; font-size: 16px; line-height: 24px; margin-bottom: 16px">There is no account. Emi never asks for your email address or a password.</div><div style="color: #5C534E; font-size: 16px; line-height: 24px; margin-bottom: 16px">Emi shows you what your own records say, and nothing more. Emi is not a contraceptive. Emi is not a medical device.</div></div></div></div><div style="align-items: center; background-color: #A8452C; border-radius: 10px; justify-content: center; margin: 24px; min-height: 44px; min-width: 44px; padding-left: 24px; padding-right: 24px"><div style="color: #FFFCF8; font-size: 16px; line-height: 24px">Continue</div></div></div></div></section></div><p class="caveat">Rendered from the tree the welcome screen produced under the test runner, at 390 by 844 points, and not captured from a phone. No screen names a font family yet, so the browser uses its own face where the phone would use the system face. Reproduce with: npm run generate:welcome-picture.</p></body></html>
+</style></head><body><div class="screens"><section class="screen"><p class="title">Step 1 of 3, and it asks her nothing</p><p class="note">No account, no email address, and the two refusals stated on the first screen.</p><div class="phone"><div style="background-color: #F7F3EE; flex: 1"><div style="align-items: center; flex-direction: row; gap: 16px; padding-left: 24px; padding-right: 24px; padding-top: 32px"><svg width="28" height="28" viewBox="0 0 24 24"><g stroke="#a8452c" stroke-width="1.75" stroke-linecap="round" stroke-linejoin="round"><path d="M4.75 8.62A8 8 0 1 0 8.62 4.75" fill="none"></path></g></svg><div style="color: #756A64; font-family: IBM Plex Mono; font-size: 12px; letter-spacing: 0.48px; line-height: 16px">Step 1 of 3</div></div><div style="flex-direction: row; gap: 4px; padding-left: 24px; padding-right: 24px; padding-top: 16px"><div style="background-color: #F1EBE4; border-radius: 999px; flex: 1; height: 6px; background-color: #A8452C"></div><div style="background-color: #F1EBE4; border-radius: 999px; flex: 1; height: 6px"></div><div style="background-color: #F1EBE4; border-radius: 999px; flex: 1; height: 6px"></div></div><div style="flex: 1; overflow: hidden"><div style="flex-grow: 1; justify-content: space-between; padding-bottom: 24px; padding-left: 24px; padding-right: 24px; padding-top: 32px; min-height: 100%"><div><div style="color: #241F1C; font-size: 26px; line-height: 32px; margin-bottom: 16px">Emi learns your cycle. You keep your data.</div><div style="color: #241F1C; font-size: 16px; line-height: 24px">Your cycle is worked out on this phone. Nothing is sent anywhere.</div></div><div style="flex-grow: 1; justify-content: center; padding-top: 32px; padding-bottom: 32px"></div><div style="background-color: #FFFCF8; border-color: #241F1C1A; border-radius: 16px; border-width: 1px; padding: 24px"><div style="color: #5C534E; font-size: 16px; line-height: 24px">There is no account. Emi never asks for your email address or a password.</div><div style="color: #5C534E; font-size: 16px; line-height: 24px; border-top-color: #241F1C1A; border-top-width: 1px; margin-top: 16px; padding-top: 16px">Emi shows you what your own records say, and nothing more. Emi is not a contraceptive. Emi is not a medical device.</div></div></div></div><div style="border-top-color: #241F1C1A; border-top-width: 1px; padding: 24px"><div style="align-items: center; background-color: #A8452C; border-radius: 10px; justify-content: center; min-height: 44px; min-width: 44px; padding-left: 24px; padding-right: 24px; padding-top: 16px; padding-bottom: 16px"><div style="color: #FFFCF8; font-size: 16px; line-height: 24px">Continue</div></div></div></div></div></section></div><p class="caveat">Rendered from the tree the welcome screen produced under the test runner, at 390 by 844 points, and not captured from a phone. The step label names the monospaced face, which no screen loads yet, so it falls back here and on a phone. Reproduce with: npm run generate:welcome-picture.</p></body></html>

diff --git a/apps/mobile/tests/pictures/welcome.picture.tsx b/apps/mobile/tests/pictures/welcome.picture.tsx
@@ -15,8 +15,8 @@ import { drawOrCheck } from '../../../../brand/screens/picture';
 
 const theCaveat = [
   'Rendered from the tree the welcome screen produced under the test runner, at 390 by 844 points,',
-  'and not captured from a phone. No screen names a font family yet, so the browser uses its own',
-  'face where the phone would use the system face. Reproduce with: npm run generate:welcome-picture.',
+  'and not captured from a phone. The step label names the monospaced face, which no screen loads',
+  'yet, so it falls back here and on a phone. Reproduce with: npm run generate:welcome-picture.',
 ].join(' ');
 
 const screens: DrawnScreen[] = [];

diff --git a/apps/mobile/tests/pictures/cycleLength.picture.tsx b/apps/mobile/tests/pictures/cycleLength.picture.tsx
@@ -18,8 +18,8 @@ import { drawOrCheck } from '../../../../brand/screens/picture';
 
 const theCaveat = [
   'Rendered from the tree the cycle length screen produced under the test runner, at 390 by 844',
-  'points, and not captured from a phone. No screen names a font family yet, so the browser uses',
-  'its own face where the phone would use the system face. Reproduce with: npm run',
+  'points, and not captured from a phone. The step label and the number name the monospaced face,',
+  'which no screen loads yet, so both fall back here and on a phone. Reproduce with: npm run',
   'generate:cycle-length-picture.',
 ].join(' ');
 
